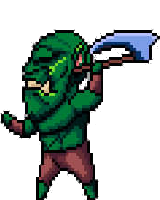
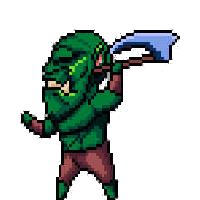
added blood dead villagers s00n

Changed region(s): [[0.0, 0.15, 1.0, 1.0], [0.4375, 0.15, 0.5, 0.18], [0.4688, 0.72, 0.5, 0.75]]

diff --git a/Campfire stories -monkey/EnemyGoblinBrute.cpp b/Campfire stories -monkey/EnemyGoblinBrute.cpp
@@ -88,10 +88,28 @@ EnemyGoblinBrute::EnemyGoblinBrute(const float& x, const float& y, const float& 
 
 void EnemyGoblinBrute::DrawEnemy() {
 	if (alive) {
-		DrawTexture(currentTexture, enemyBox.x, enemyBox.y + 10, WHITE);
-		//DrawTexturePro(goblinTex, src, dest, origin, 0, WHITE);
-		DrawRectangleRec(this->getHealhBar(), LIME);// health
+		float w = (float)currentTexture.width;
+		float h = (float)currentTexture.height;
+
+		Rectangle src = { 0, 0, w, h };
+
+		// Anchor point: bottom center of the sprite
+		Vector2 origin = { w / 2.0f, h };
+
+		// Position: bottom center of the enemy hitbox
+		float drawX = 0;//enemyBox.x + enemyBox.width / 2;
+		drawX = facingRight ? enemyBox.x + enemyBox.width - 10 : enemyBox.x + enemyBox.width + 10; // Adjust X based on facing direction
+		float drawY = enemyBox.y + enemyBox.height;
+
+		Rectangle dest = { drawX, drawY, w, h };
+
+		DrawTexturePro(currentTexture, src, dest, origin, 0.0f, WHITE);
+
+		DrawRectangleRec(this->getHealhBar(), LIME);
+
 	}
+
+
 	//attack hitbox for testing
 	//DrawRectangleRec(hitbox, BLUE);
 }
@@ -101,7 +119,7 @@ void EnemyGoblinBrute::playerSeenFunc(PlayerMonkey player) {
 		walkingDistanceRight = player.getRectangle().x + enemyBox.width;
 		walkingDistanceLeft = player.getRectangle().x - enemyBox.width;
 
-		closeDistanceToPlayer = abs(player.getRectangle().x - enemyBox.x + 10);
+		closeDistanceToPlayer = abs(player.getRectangle().x - enemyBox.x);
 
 		if (closeDistanceToPlayer <= 80 || animHitLeft > 0 || animHitRight > 0) {
 			hitting = true;

diff --git a/Campfire stories -monkey/Village.cpp b/Campfire stories -monkey/Village.cpp
@@ -33,7 +33,7 @@ void Village::DrawVillageBackHouses() {
 	DrawTexture(stoneTowerTexture, 12500.0f, 130.0f, WHITE);
 }
 void Village::DrawVillageFrontHouses() {
-	DrawTexture(chimneyHouseTexture, 8150.0f, 800.0f, Fade(WHITE, 0.5f));
+	DrawTexture(chimneyHouseTexture, 8450.0f, 800.0f, Fade(WHITE, 0.5f));
 	DrawTexture(woodenHouseTexture, 9000.0f, 700.0f, Fade(WHITE, 0.5f));
 	DrawTexture(woodenstallTexture, 9510.0f, 750.0f, Fade(WHITE, 0.5f));
 	DrawTexture(tatchRoofHouseTexture, 10000, 750.0f, Fade(WHITE, 0.5f));
